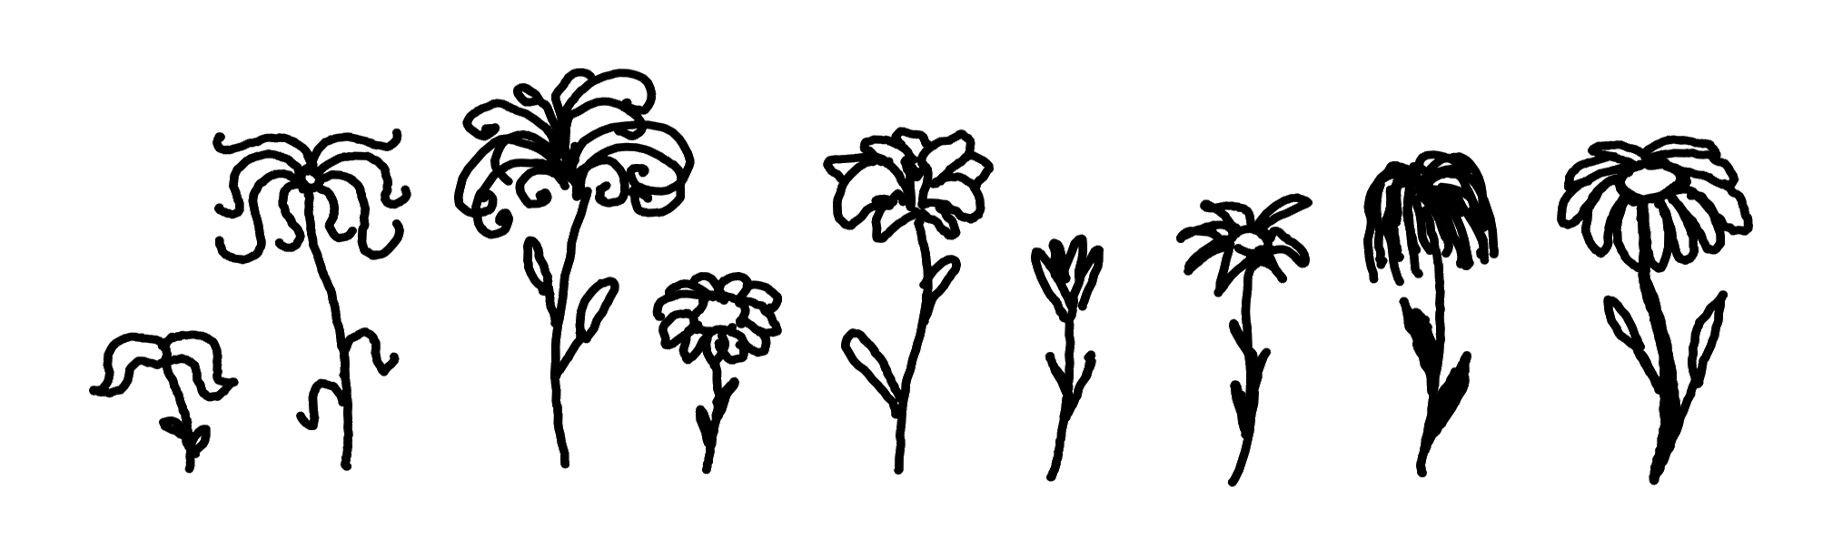
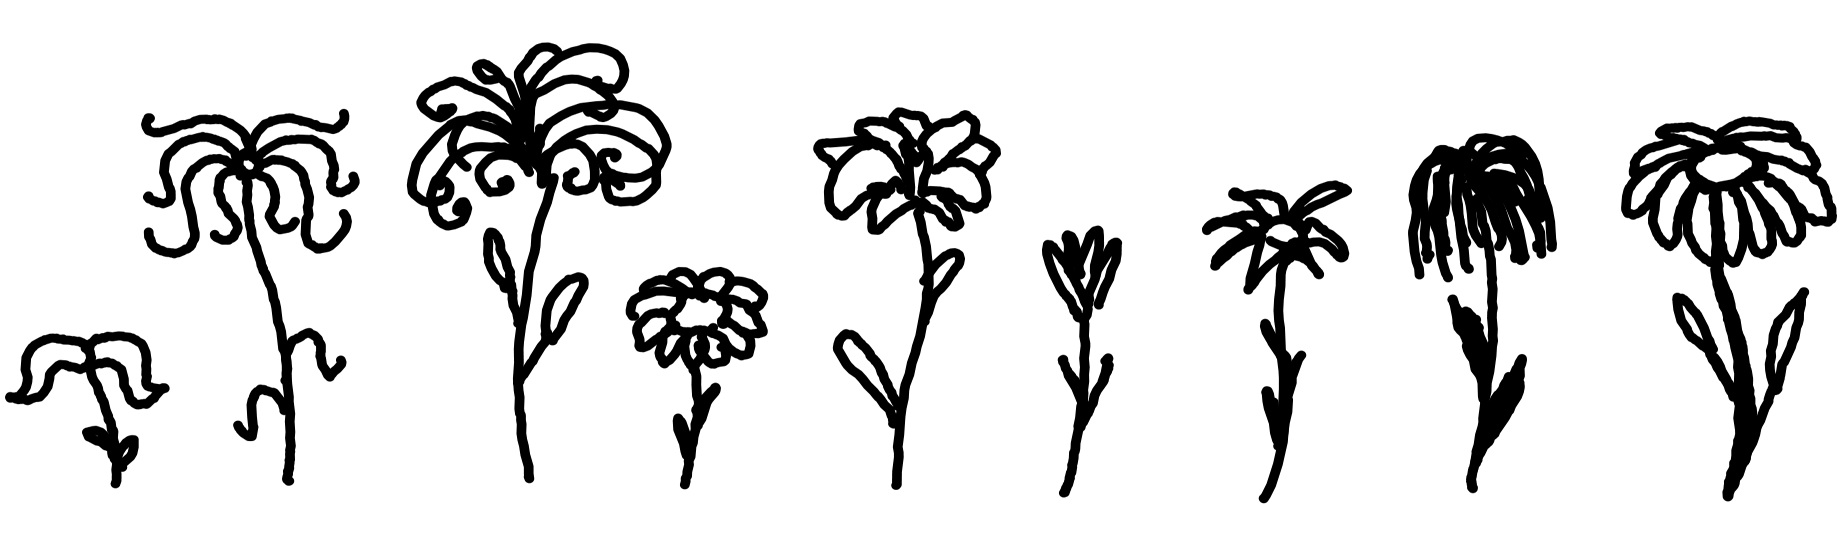
small polishes

diff --git a/style.css b/style.css
@@ -155,14 +155,6 @@ nav {
     border-radius: 100px; 
 }
 
-/* Blinking Cursor for Hero Title */
-.blink {
-    animation: blink 1.1s step-end infinite;
-}
-@keyframes blink {
-    50% { opacity: 0; }
-}
-
 .hero-subtitle {
     color: #666;
     max-width: 600px;
@@ -189,7 +181,7 @@ nav {
 
 .side-art {
     position: fixed;
-    top: 15%;
+    top: 50%;
     transform: translateY(-50%);
     width: 210px;
     z-index: 1;
@@ -200,15 +192,16 @@ nav {
 .left-art { left: 30px; }
 .right-art { animation-delay: -3s; right: 30px; }
 
+/* Adjusted inline background styles here */
 h1, h2, p, .project-meta, .idea-item p {
     display: inline;
     background: #ffffff;
-    padding: 0.2rem 0.6rem;
-    border-radius: 8px;
-    box-shadow: 5px 0 0 #ffffff, -5px 0 0 #ffffff;
+    padding: 0.2rem 0.8rem; /* Slightly thicker padding to compensate for shadow loss */
+    border-radius: 12px; /* Smooth rounded corners instead of 8px */
     line-height: 2.2;
     box-decoration-break: clone;
     -webkit-box-decoration-break: clone;
+    /* Note: Sharp, horizontal box shadows removed here to fix the square edges */
 }
 
 h1 { 
@@ -224,7 +217,6 @@ h2 {
     display: inline-block; 
     margin-bottom: 2rem;
     text-transform: uppercase;
-    border-bottom: 2px solid #000;
 }
 
 section p {
@@ -233,8 +225,8 @@ section p {
 }
 
 section {
-    padding: 6rem 0; /* Expanded padding */
-    border-bottom: 1px solid #eeeeee;
+    padding: 3rem 0;
+    border-bottom: none;
     line-height: 2.5;
 }
 
@@ -310,7 +302,7 @@ img, video {
 
 .idea-item {
     text-align: center;
-    cursor: pointer; /* Suggests clicking */
+    cursor: pointer;
 }
 
 .idea-item img {
@@ -333,7 +325,7 @@ img, video {
 
 .idea-item:hover img.idea-frame {
     border-color: #666;
-    transform: scale(1.03) rotate(1deg); /* Added dynamic rotation */
+    transform: scale(1.03) rotate(1deg);
     box-shadow: 0 10px 15px rgba(0,0,0,0.05);
 }
 
@@ -439,7 +431,7 @@ img, video {
 @media (max-width: 800px) {
     .lb-arrow { display: none; }
     nav { padding: 1rem; }
-    .nav-links { display: none; /* simple hamburger hidden for now */ }
+    .nav-links { display: none; }
 }
 @media (max-width: 600px) { 
     .gallery-grid, .ideas-grid { grid-template-columns: 1fr; } 

diff --git a/index.html b/index.html
@@ -9,7 +9,7 @@
 <body>
 
     <nav>
-        <a href="#hero" class="nav-logo">Márk Mucska's Portfolio</a>
+        <a href="#hero" class="nav-logo">M.M.</a>
         <ul class="nav-links">
             <li><a href="#about">About</a></li>
             <li><a href="#sneak">Projects</a></li>
@@ -25,7 +25,7 @@
         <header id="hero" class="site-header reveal">
             <div class="hero-overlay-container">
                 <img src="media/graphics/hero.png" class="hero-overlay-img sketch-asset" alt="Hero Art">
-                <h1 class="hero-title-overlay">Márk Mucska<span class="blink">_</span></h1>
+                <h1 class="hero-title-overlay">Márk Mucska</h1>
             </div>
             
             <p class="hero-subtitle">
